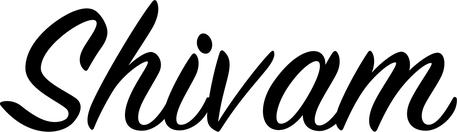
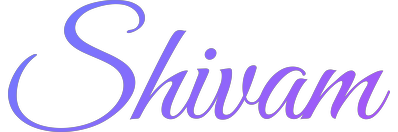
Upgrade header signature to a Great Vibes gradient wordmark
Swap the basic SignPainter word for a premium calligraphic 'Shivam'
(Great Vibes) filled with the site's indigo->violet accent gradient.
The mark is now colour-fixed, so drop the dark-theme invert rule that
would have flipped it. Shipped as a 3x PNG (398x132).

diff --git a/assets/css/extended/custom.css b/assets/css/extended/custom.css
@@ -48,9 +48,8 @@ body.home .main {
     display: block;
 }
 
-[data-theme="dark"] .logo .signature-logo {
-    filter: invert(1);
-}
+/* Signature is a fixed accent-gradient mark, so it is intentionally NOT
+   inverted on the dark theme — it reads on both light and dark. */
 
 @media (max-width: 500px) {
     .logo a .signature-logo {
